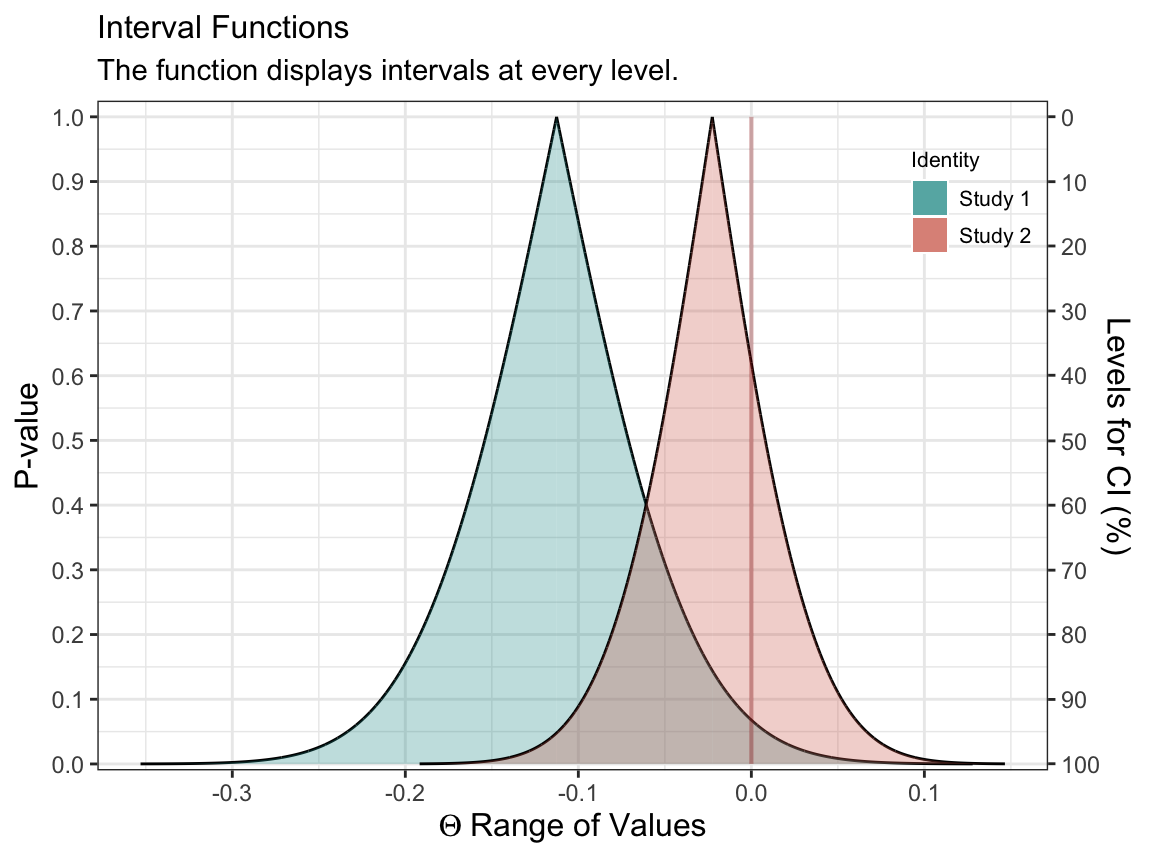
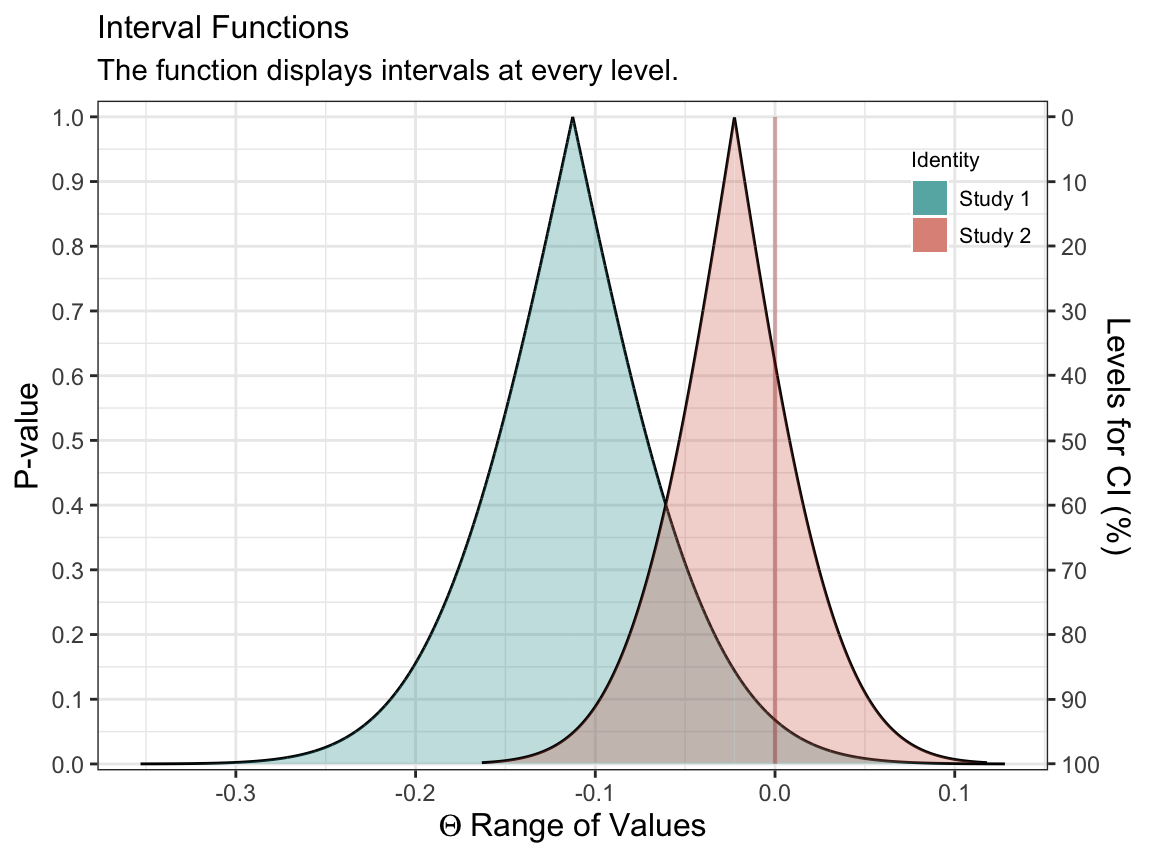
correction to code example in vignette

diff --git a/docs/index.html b/docs/index.html
@@ -118,63 +118,43 @@
       </header><div class="row">
   <div class="contents col-md-9">
 
-<div id="concurve--graph-interval-functions-" class="section level1">
-<div class="page-header"><h1 class="hasAnchor">
-<a href="#concurve--graph-interval-functions-" class="anchor"></a>concurve | Graph Interval Functions <img src="reference/figures/logo.svg" align="right" width="70">
-</h1></div>
-<!-- badges: start -->
+<center>
 
-<div id="compare-interval-functions-from-different-datastudies" class="section level2">
-<h2 class="hasAnchor">
-<a href="#compare-interval-functions-from-different-datastudies" class="anchor"></a>Compare Interval Functions From Different Data/Studies</h2>
+<strong> concurve | Graph Interval Functions </strong>
+<img src="reference/figures/logo.svg" align="right" width="70">
+</center>
+<hr>
+<!-- badges: start -->
+<div id="compare-functions-from-different-datasetsstudies" class="section level3">
+<h3 class="hasAnchor">
+<a href="#compare-functions-from-different-datasetsstudies" class="anchor"></a><a href="file:///Users/Zad/Desktop/GitHub/concurve/docs/reference/curve_compare.html">Compare</a> Functions From Different Datasets/Studies</h3>
 <p><img src="https://res.cloudinary.com/less-likely/image/upload/v1574598684/Site/cfunctions.png" align="center" width="200"><img src="https://res.cloudinary.com/less-likely/image/upload/v1574598684/Site/sfunctions.png" align="center" width="200"><img src="https://res.cloudinary.com/less-likely/image/upload/v1574598684/Site/lfunctions.png" align="center" width="200"><img src="https://res.cloudinary.com/less-likely/image/upload/v1574598684/Site/dfunctions.png" align="center" width="200"></p>
 <hr>
 </div>
-<div id="export-tabled-results-easily-for-word-powerpoint--tex-documents" class="section level2">
-<h2 class="hasAnchor">
-<a href="#export-tabled-results-easily-for-word-powerpoint--tex-documents" class="anchor"></a>Export Tabled Results Easily For Word, Powerpoint, &amp; TeX documents</h2>
+<div id="export-tables-easily-for-word-powerpoint--tex-documents" class="section level3">
+<h3 class="hasAnchor">
+<a href="#export-tables-easily-for-word-powerpoint--tex-documents" class="anchor"></a><a href="file:///Users/Zad/Desktop/GitHub/concurve/docs/reference/curve_table.html">Export Tables</a> Easily For Word, Powerpoint, &amp; TeX documents</h3>
 <center>
 
-<img src="https://res.cloudinary.com/less-likely/image/upload/v1574628079/Site/tables.png" align="center" width="500">
+<img src="https://res.cloudinary.com/less-likely/image/upload/v1574628079/Site/tables.png" align="center" width="375"><img src="https://res.cloudinary.com/less-likely/image/upload/v1575441662/Site/Logo2.jpg" align="center" width="150">
 </center>
-</div>
-</div>
-<div id="installation" class="section level1">
-<h1 class="hasAnchor">
-<a href="#installation" class="anchor"></a>Installation</h1>
-<div id="for-r" class="section level2">
-<h2 class="hasAnchor">
-<a href="#for-r" class="anchor"></a>For R:</h2>
-<div id="install-the-package-from-cran" class="section level3">
-<h3 class="hasAnchor">
-<a href="#install-the-package-from-cran" class="anchor"></a>Install the Package From CRAN</h3>
-<div class="sourceCode" id="cb1"><pre class="sourceCode r"><code class="sourceCode r"><a class="sourceLine" id="cb1-1" title="1"><span class="kw"><a href="https://rdrr.io/r/utils/install.packages.html">install.packages</a></span>(<span class="st">"concurve"</span>)</a></code></pre></div>
-</div>
-<div id="install-the-developer-version" class="section level3">
-<h3 class="hasAnchor">
-<a href="#install-the-developer-version" class="anchor"></a>Install the Developer Version</h3>
-<div class="sourceCode" id="cb2"><pre class="sourceCode r"><code class="sourceCode r"><a class="sourceLine" id="cb2-1" title="1"><span class="kw"><a href="https://rdrr.io/r/base/library.html">library</a></span>(devtools)</a>
-<a class="sourceLine" id="cb2-2" title="2"><span class="kw"><a href="https://rdrr.io/pkg/devtools/man/remote-reexports.html">install_github</a></span>(<span class="st">"zadchow/concurve"</span>)</a></code></pre></div>
-</div>
-<div id="check-out-the-examples" class="section level3">
-<h3 class="hasAnchor">
-<a href="#check-out-the-examples" class="anchor"></a>Check out the <a href="https://data.lesslikely.com/concurve/articles/examples.html">Examples</a>.</h3>
 <hr>
 </div>
-</div>
-<div id="for-stata" class="section level2">
-<h2 class="hasAnchor">
-<a href="#for-stata" class="anchor"></a>For Stata:</h2>
-<div id="check-out-the-article-on-using-stata-for-concurve" class="section level3">
+<div id="install-the-package-from-cran-below-to-follow-the-examples" class="section level3">
 <h3 class="hasAnchor">
-<a href="#check-out-the-article-on-using-stata-for-concurve" class="anchor"></a>Check out the <a href="https://data.lesslikely.com/concurve/articles/stata.html">Article on Using Stata</a> for concurve.</h3>
+<a href="#install-the-package-from-cran-below-to-follow-the-examples" class="anchor"></a>Install the Package From <a href="https://cran.r-project.org/package=concurve">CRAN</a> Below To Follow The <a href="https://data.lesslikely.com/concurve/articles/examples.html">Examples</a>.</h3>
+<p>(<code>Serious Recommendation</code>)</p>
+<div class="sourceCode" id="cb1"><pre class="sourceCode R"><code class="sourceCode r"><a class="sourceLine" id="cb1-1" title="1"><span class="kw"><a href="https://rdrr.io/r/utils/install.packages.html">install.packages</a></span>(<span class="st">"concurve"</span>)</a></code></pre></div>
 <hr>
 </div>
+<div id="check-out-the-article-on-using-stata-for-concurve" class="section level2">
+<h2 class="hasAnchor">
+<a href="#check-out-the-article-on-using-stata-for-concurve" class="anchor"></a>Check out the <a href="https://data.lesslikely.com/concurve/articles/stata.html">Article on Using Stata</a> for concurve.</h2>
+<hr>
 </div>
-</div>
-<div id="dependencies" class="section level1">
-<h1 class="hasAnchor">
-<a href="#dependencies" class="anchor"></a>Dependencies</h1>
+<div id="dependencies" class="section level2">
+<h2 class="hasAnchor">
+<a href="#dependencies" class="anchor"></a>Dependencies</h2>
 <ul>
 <li>ggplot2</li>
 <li>metafor</li>
@@ -200,8 +180,8 @@
 <hr>
 </div>
 <div id="purpose" class="section level1">
-<h1 class="hasAnchor">
-<a href="#purpose" class="anchor"></a>Purpose</h1>
+<div class="page-header"><h1 class="hasAnchor">
+<a href="#purpose" class="anchor"></a>Purpose</h1></div>
 <blockquote>
 <p>In particular, the usual 95% default forces the user’s focus onto parameter values that yield p &gt; 0.05, without regard to the trivial difference between (say) p = 0.06 and p = 0.04 (a difference not even worth a coin toss). To address this problem, we first note that a 95% interval estimate is only one of a number of arbitrary dichotomization of possibilities of parameter values (into either inside or outside of an interval). A more accurate picture of uncertainty is then obtained by examining intervals using other percentiles, e.g., proportionally-spaced compatibility levels such as p 0.25, 0.05, 0.01, which correspond to 75%, 95%, 99% CIs and equally-spaced S-values of s &lt; 2, 4.32, 6.64 bits. When a detailed picture is desired, a table or graph of all the P-values and S-values across a broad range of parameter values seems the clearest way to see how compatibility varies smoothly across the values.</p>
 <p>Graphs of P-values or their equivalent have been promoted for decades [34, 56–59], yet their adoption has been slight. Nonetheless, P-value and S-value graphing software is now available freely through several statistical packages [60–62]. A graph of the P-values p against possible parameter values allows one to see at a glance which parameter values are most compatible with the data under the background assumptions. This graph is known as the P-value function, or compatibility, consonance, or confidence curve [34, 57, 58, 63, 64]. Transforming the corresponding P-values in the graph to S-values produces an S-value (surprisal) function.</p>
@@ -242,23 +222,23 @@
 <div id="session-info" class="section level1">
 <h1 class="hasAnchor">
 <a href="#session-info" class="anchor"></a>Session info</h1>
-<div class="sourceCode" id="cb3"><pre class="sourceCode R"><code class="sourceCode r"><a class="sourceLine" id="cb3-1" title="1"><span class="co">## R version 3.6.1 (2019-07-05)</span></a>
-<a class="sourceLine" id="cb3-2" title="2"><span class="co">## Platform: x86_64-apple-darwin15.6.0 (64-bit)</span></a>
-<a class="sourceLine" id="cb3-3" title="3"><span class="co">## Running under: macOS Catalina 10.15.1</span></a>
-<a class="sourceLine" id="cb3-4" title="4"><span class="co">## </span></a>
-<a class="sourceLine" id="cb3-5" title="5"><span class="co">## Matrix products: default</span></a>
-<a class="sourceLine" id="cb3-6" title="6"><span class="co">## BLAS:   /Library/Frameworks/R.framework/Versions/3.6/Resources/lib/libRblas.0.dylib</span></a>
-<a class="sourceLine" id="cb3-7" title="7"><span class="co">## LAPACK: /Library/Frameworks/R.framework/Versions/3.6/Resources/lib/libRlapack.dylib</span></a>
-<a class="sourceLine" id="cb3-8" title="8"><span class="co">## </span></a>
-<a class="sourceLine" id="cb3-9" title="9"><span class="co">## locale:</span></a>
-<a class="sourceLine" id="cb3-10" title="10"><span class="co">## [1] en_US.UTF-8/en_US.UTF-8/en_US.UTF-8/C/en_US.UTF-8/en_US.UTF-8</span></a>
-<a class="sourceLine" id="cb3-11" title="11"><span class="co">## </span></a>
-<a class="sourceLine" id="cb3-12" title="12"><span class="co">## attached base packages:</span></a>
-<a class="sourceLine" id="cb3-13" title="13"><span class="co">## [1] stats     graphics  grDevices utils     methods   base     </span></a>
-<a class="sourceLine" id="cb3-14" title="14"><span class="co">## </span></a>
-<a class="sourceLine" id="cb3-15" title="15"><span class="co">## loaded via a namespace (and not attached):</span></a>
-<a class="sourceLine" id="cb3-16" title="16"><span class="co">##  [1] compiler_3.6.1  magrittr_1.5    tools_3.6.1     htmltools_0.4.0 yaml_2.2.0      Rcpp_1.0.3      stringi_1.4.3  </span></a>
-<a class="sourceLine" id="cb3-17" title="17"><span class="co">##  [8] rmarkdown_1.18  knitr_1.26      stringr_1.4.0   xfun_0.11       digest_0.6.23   rlang_0.4.2     evaluate_0.14</span></a></code></pre></div>
+<div class="sourceCode" id="cb2"><pre class="sourceCode R"><code class="sourceCode r"><a class="sourceLine" id="cb2-1" title="1"><span class="co">## R version 3.6.1 (2019-07-05)</span></a>
+<a class="sourceLine" id="cb2-2" title="2"><span class="co">## Platform: x86_64-apple-darwin15.6.0 (64-bit)</span></a>
+<a class="sourceLine" id="cb2-3" title="3"><span class="co">## Running under: macOS Catalina 10.15.1</span></a>
+<a class="sourceLine" id="cb2-4" title="4"><span class="co">## </span></a>
+<a class="sourceLine" id="cb2-5" title="5"><span class="co">## Matrix products: default</span></a>
+<a class="sourceLine" id="cb2-6" title="6"><span class="co">## BLAS:   /Library/Frameworks/R.framework/Versions/3.6/Resources/lib/libRblas.0.dylib</span></a>
+<a class="sourceLine" id="cb2-7" title="7"><span class="co">## LAPACK: /Library/Frameworks/R.framework/Versions/3.6/Resources/lib/libRlapack.dylib</span></a>
+<a class="sourceLine" id="cb2-8" title="8"><span class="co">## </span></a>
+<a class="sourceLine" id="cb2-9" title="9"><span class="co">## locale:</span></a>
+<a class="sourceLine" id="cb2-10" title="10"><span class="co">## [1] en_US.UTF-8/en_US.UTF-8/en_US.UTF-8/C/en_US.UTF-8/en_US.UTF-8</span></a>
+<a class="sourceLine" id="cb2-11" title="11"><span class="co">## </span></a>
+<a class="sourceLine" id="cb2-12" title="12"><span class="co">## attached base packages:</span></a>
+<a class="sourceLine" id="cb2-13" title="13"><span class="co">## [1] stats     graphics  grDevices utils     methods   base     </span></a>
+<a class="sourceLine" id="cb2-14" title="14"><span class="co">## </span></a>
+<a class="sourceLine" id="cb2-15" title="15"><span class="co">## loaded via a namespace (and not attached):</span></a>
+<a class="sourceLine" id="cb2-16" title="16"><span class="co">##  [1] compiler_3.6.1  magrittr_1.5    tools_3.6.1     htmltools_0.4.0 yaml_2.2.0      Rcpp_1.0.3      stringi_1.4.3  </span></a>
+<a class="sourceLine" id="cb2-17" title="17"><span class="co">##  [8] rmarkdown_1.18  knitr_1.26      stringr_1.4.0   xfun_0.11       digest_0.6.23   rlang_0.4.2     evaluate_0.14</span></a></code></pre></div>
 </div>
 
   </div>

diff --git a/docs/articles/examples.html b/docs/articles/examples.html
@@ -260,8 +260,8 @@
 <div class="sourceCode" id="cb8"><pre class="sourceCode r"><code class="sourceCode r"><a class="sourceLine" id="cb8-1" title="1">GroupA2 &lt;-<span class="st"> </span><span class="kw"><a href="https://rdrr.io/r/stats/Normal.html">rnorm</a></span>(<span class="dv">500</span>)</a>
 <a class="sourceLine" id="cb8-2" title="2">GroupB2 &lt;-<span class="st"> </span><span class="kw"><a href="https://rdrr.io/r/stats/Normal.html">rnorm</a></span>(<span class="dv">500</span>)</a>
 <a class="sourceLine" id="cb8-3" title="3">RandomData2 &lt;-<span class="st"> </span><span class="kw"><a href="https://rdrr.io/r/base/data.frame.html">data.frame</a></span>(GroupA2, GroupB2)</a>
-<a class="sourceLine" id="cb8-4" title="4">model &lt;-<span class="st"> </span><span class="kw"><a href="https://rdrr.io/r/stats/glm.html">glm</a></span>(GroupA2 <span class="op">~</span><span class="st"> </span>GroupB2, <span class="dt">data =</span> RandomData2)</a>
-<a class="sourceLine" id="cb8-5" title="5">randomframe &lt;-<span class="st"> </span><span class="kw"><a href="../reference/curve_gen.html">curve_gen</a></span>(model, <span class="st">"GroupB2"</span>, <span class="dt">method =</span> <span class="st">"glm"</span>, <span class="dt">steps =</span> <span class="dv">10000</span>)</a></code></pre></div>
+<a class="sourceLine" id="cb8-4" title="4">model &lt;-<span class="st"> </span><span class="kw"><a href="https://rdrr.io/r/stats/lm.html">lm</a></span>(GroupA2 <span class="op">~</span><span class="st"> </span>GroupB2, <span class="dt">data =</span> RandomData2)</a>
+<a class="sourceLine" id="cb8-5" title="5">randomframe &lt;-<span class="st"> </span><span class="kw"><a href="../reference/curve_gen.html">curve_gen</a></span>(model, <span class="st">"GroupB2"</span>)</a></code></pre></div>
 <p>Once again, we’ll plot this data with <code><a href="../reference/ggcurve.html">ggcurve()</a></code>. We can also indicate whether we want certain interval estimates to be plotted in the function with the “levels” argument. If we wanted to plot the 50%, 75%, and 95% intervals, we’d provide the argument this way:</p>
 <div class="sourceCode" id="cb9"><pre class="sourceCode r"><code class="sourceCode r"><a class="sourceLine" id="cb9-1" title="1">(function2 &lt;-<span class="st"> </span><span class="kw"><a href="../reference/ggcurve.html">ggcurve</a></span>(<span class="dt">type =</span> <span class="st">"c"</span>, randomframe[[<span class="dv">1</span>]], <span class="dt">levels =</span> <span class="kw"><a href="https://rdrr.io/r/base/c.html">c</a></span>(<span class="fl">0.50</span>, <span class="fl">0.75</span>, <span class="fl">0.95</span>), <span class="dt">nullvalue =</span> <span class="ot">TRUE</span>))</a></code></pre></div>
 <p><img src="examples_files/figure-html/unnamed-chunk-9-1.png" width="576"></p>
@@ -292,7 +292,7 @@
 <a class="sourceLine" id="cb11-8" title="8"><span class="co">#&gt; </span></a>
 <a class="sourceLine" id="cb11-9" title="9"><span class="co">#&gt;  AUC 1   AUC 2   Shared AUC   AUC Overlap (%)   Overlap:Non-Overlap AUC Ratio</span></a>
 <a class="sourceLine" id="cb11-10" title="10"><span class="co">#&gt; ------  ------  -----------  ----------------  ------------------------------</span></a>
-<a class="sourceLine" id="cb11-11" title="11"><span class="co">#&gt;  3.947   2.563        2.145             0.491                           0.966</span></a>
+<a class="sourceLine" id="cb11-11" title="11"><span class="co">#&gt;  3.947   1.531        1.531             0.388                           0.634</span></a>
 <a class="sourceLine" id="cb11-12" title="12"><span class="co">#&gt; </span></a>
 <a class="sourceLine" id="cb11-13" title="13"><span class="co">#&gt; [[2]]</span></a></code></pre></div>
 <p><img src="examples_files/figure-html/unnamed-chunk-11-1.png" width="576"></p>
@@ -436,7 +436,8 @@
 <a class="sourceLine" id="cb23-7" title="7">}</a></code></pre></div>
 <p>Our function is a simple mean difference. This time, we’ll set the method to “t” for the <em>t</em>-bootstrap method</p>
 <div class="sourceCode" id="cb24"><pre class="sourceCode r"><code class="sourceCode r"><a class="sourceLine" id="cb24-1" title="1">z &lt;-<span class="st"> </span><span class="kw"><a href="../reference/curve_boot.html">curve_boot</a></span>(<span class="dt">data =</span> CommuteAtlanta, <span class="dt">func =</span> func, <span class="dt">method =</span> <span class="st">"t"</span>, <span class="dt">replicates =</span> <span class="dv">2000</span>, <span class="dt">steps =</span> <span class="dv">1000</span>)</a>
-<a class="sourceLine" id="cb24-2" title="2"><span class="kw"><a href="../reference/ggcurve.html">ggcurve</a></span>(<span class="dt">data =</span> z[[<span class="dv">1</span>]])</a></code></pre></div>
+<a class="sourceLine" id="cb24-2" title="2"><span class="co">#&gt; Warning in norm.inter(t, alpha): extreme order statistics used as endpoints</span></a>
+<a class="sourceLine" id="cb24-3" title="3"><span class="kw"><a href="../reference/ggcurve.html">ggcurve</a></span>(<span class="dt">data =</span> z[[<span class="dv">1</span>]])</a></code></pre></div>
 <p><img src="examples_files/figure-html/unnamed-chunk-22-1.png" width="576"></p>
 <div class="sourceCode" id="cb25"><pre class="sourceCode r"><code class="sourceCode r"><a class="sourceLine" id="cb25-1" title="1"><span class="kw"><a href="../reference/ggcurve.html">ggcurve</a></span>(<span class="dt">data =</span> z[[<span class="dv">2</span>]], <span class="dt">type =</span> <span class="st">"cd"</span>)</a></code></pre></div>
 <p><img src="examples_files/figure-html/unnamed-chunk-22-2.png" width="576"></p>

diff --git a/docs/extra.css b/docs/extra.css
@@ -46,7 +46,8 @@ a:focus {
 }
 
 h1, .h1 {
-  font-size: 32px;
+  font-size: 25px;
+  font-weight: 900;
 }
 
 h1 small, .h1 small {
@@ -56,15 +57,15 @@ h1 small, .h1 small {
 }
 
 h2, .h2 {
-  font-size: 28px;
+  font-size: 25px;
 }
 
 h3, .h3 {
-  font-size: 20px;
+  font-size: 24px;
 }
 
 h4, .h4 {
-  font-size: 20px;
+  font-size: 23px;
 }
 
 .contents h1, .contents h2, .contents h3, .contents h4 {

diff --git a/pkgdown/extra.css b/pkgdown/extra.css
@@ -46,7 +46,8 @@ a:focus {
 }
 
 h1, .h1 {
-  font-size: 32px;
+  font-size: 25px;
+  font-weight: 900;
 }
 
 h1 small, .h1 small {
@@ -56,15 +57,15 @@ h1 small, .h1 small {
 }
 
 h2, .h2 {
-  font-size: 28px;
+  font-size: 25px;
 }
 
 h3, .h3 {
-  font-size: 20px;
+  font-size: 24px;
 }
 
 h4, .h4 {
-  font-size: 20px;
+  font-size: 23px;
 }
 
 .contents h1, .contents h2, .contents h3, .contents h4 {

diff --git a/README.md b/README.md
@@ -1,5 +1,12 @@
 
-# concurve | Graph Interval Functions <img src="man/figures/logo.svg" align="right" width="70" />
+<center>
+
+<strong> concurve | Graph Interval Functions </strong>
+<img src="man/figures/logo.svg" align="right" width="70"/>
+
+</center>
+
+-----
 
 <!-- badges: start -->
 
@@ -15,7 +22,7 @@ maturing](https://img.shields.io/badge/lifecycle-maturing-blue.svg)](https://www
 v3](https://img.shields.io/badge/License-GPL%20v3-blue.svg)](https://www.gnu.org/licenses/gpl-3.0)
 <!-- badges: end -->
 
-## Compare Interval Functions From Different Data/Studies
+### [Compare](file:///Users/Zad/Desktop/GitHub/concurve/docs/reference/curve_compare.html) Functions From Different Datasets/Studies
 
 <img src = "https://res.cloudinary.com/less-likely/image/upload/v1574598684/Site/cfunctions.png" align="center" width ="200">
 <img src = "https://res.cloudinary.com/less-likely/image/upload/v1574598684/Site/sfunctions.png" align="center" width="200">
@@ -24,42 +31,32 @@ v3](https://img.shields.io/badge/License-GPL%20v3-blue.svg)](https://www.gnu.org
 
 -----
 
-## Export Tabled Results Easily For Word, Powerpoint, & TeX documents
+### [Export Tables](file:///Users/Zad/Desktop/GitHub/concurve/docs/reference/curve_table.html) Easily For Word, Powerpoint, & TeX documents
 
 <center>
 
-<img src = "https://res.cloudinary.com/less-likely/image/upload/v1574628079/Site/tables.png" align="center" width="500">
+<img src = "https://res.cloudinary.com/less-likely/image/upload/v1574628079/Site/tables.png" align="center" width="375">
+
+<img src = "https://res.cloudinary.com/less-likely/image/upload/v1575441662/Site/Logo2.jpg" align="center" width="150">
 
 </center>
 
-# Installation
+-----
 
-## For R:
+### Install the Package From [CRAN](https://cran.r-project.org/package=concurve) Below To Follow The [Examples](https://data.lesslikely.com/concurve/articles/examples.html).
 
-### Install the Package From CRAN
+(`Serious
+Recommendation`)
 
-``` r
-install.packages("concurve")
-```
-
-### Install the Developer Version
-
-``` r
-library(devtools)
-install_github("zadchow/concurve")
-```
-
-### Check out the [Examples](https://data.lesslikely.com/concurve/articles/examples.html).
+    install.packages("concurve")
 
 -----
 
-## For Stata:
-
-### Check out the [Article on Using Stata](https://data.lesslikely.com/concurve/articles/stata.html) for concurve.
+## Check out the [Article on Using Stata](https://data.lesslikely.com/concurve/articles/stata.html) for concurve.
 
 -----
 
-# Dependencies
+## Dependencies
 
   - ggplot2
   - metafor
